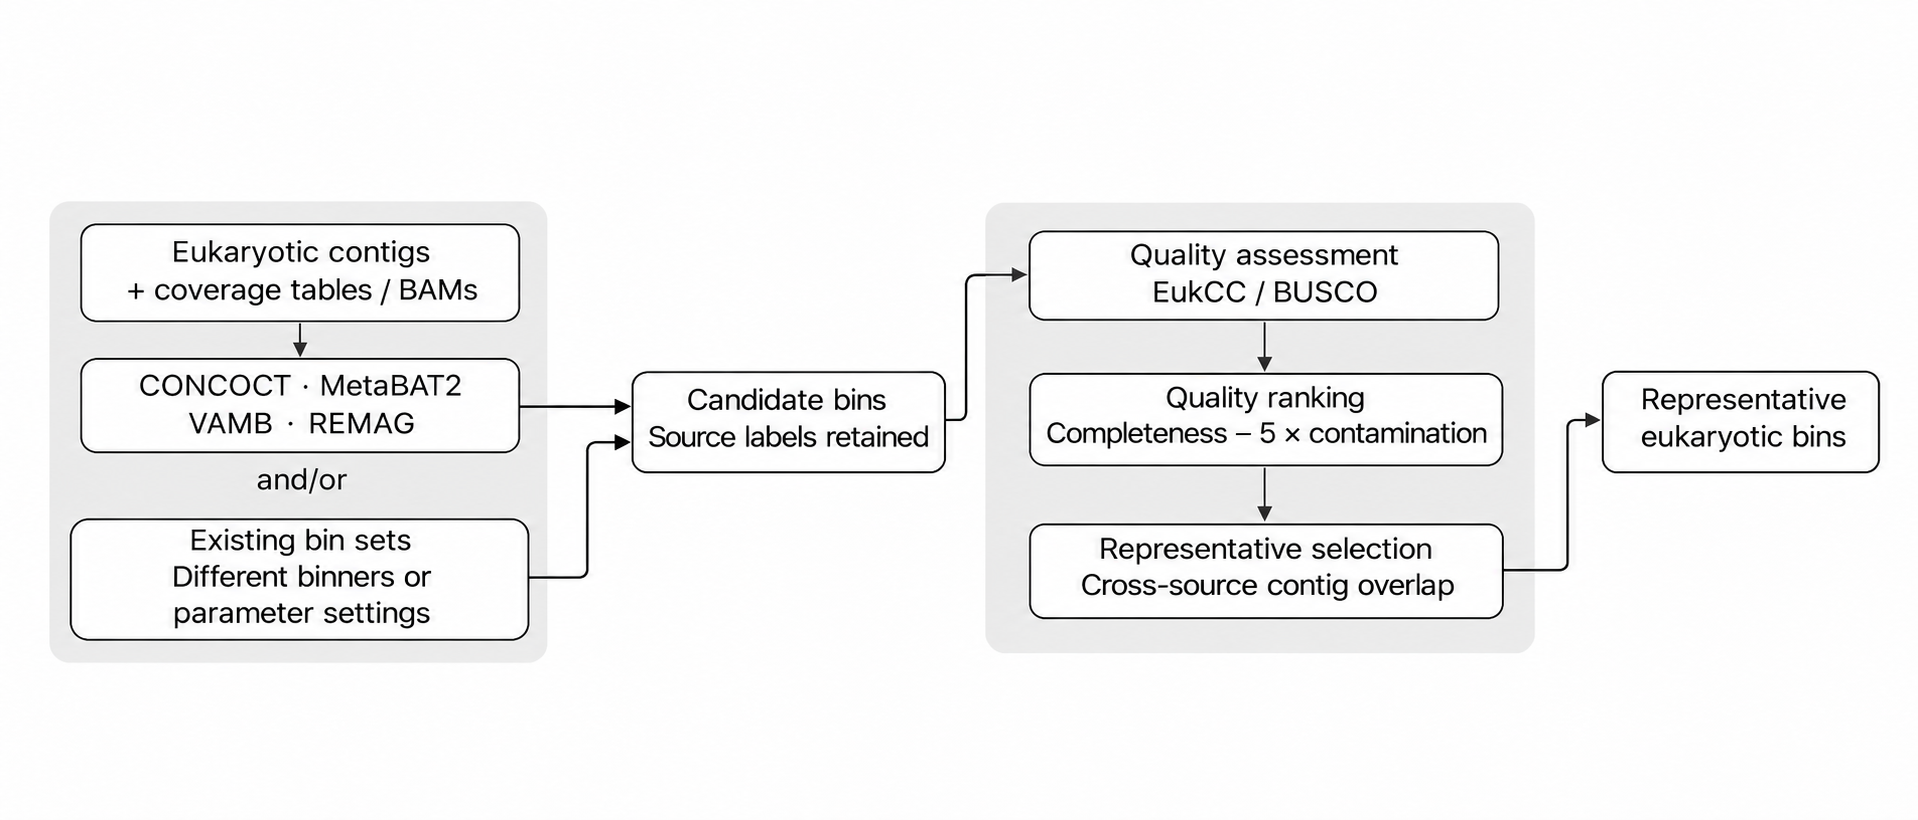
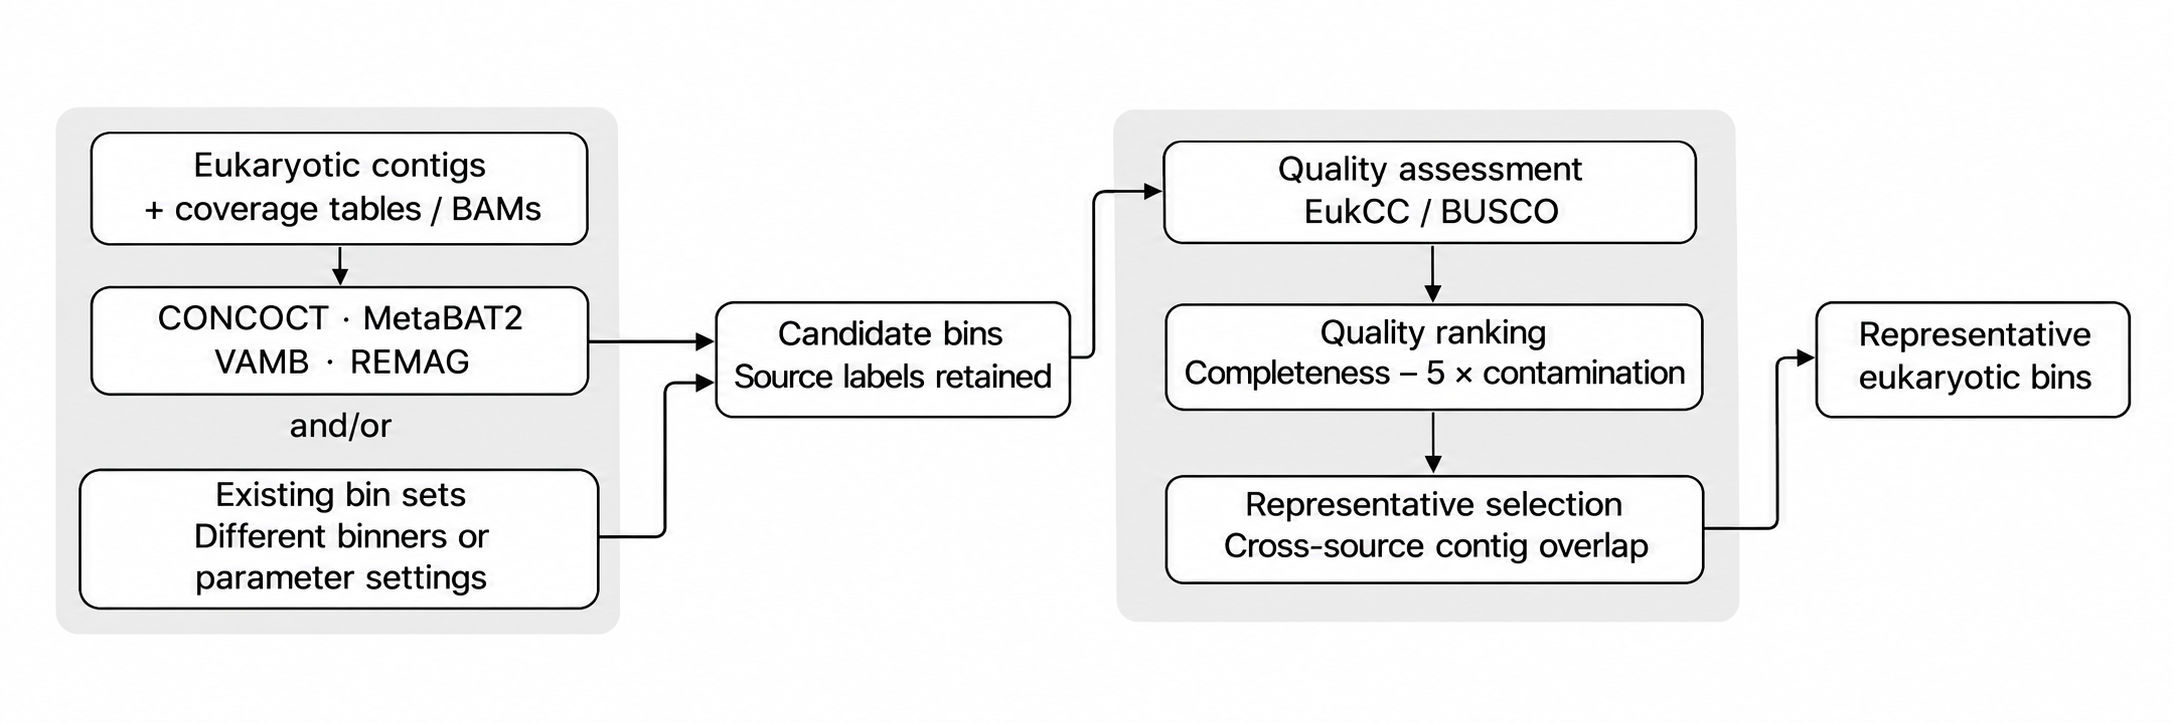
Simplify README usage and defaults and reduce workflow figure whitespace

diff --git a/README.md b/README.md
@@ -6,35 +6,35 @@ Version **0.3** · [GitHub](https://github.com/WeStrainGroup/EukBinPicker)
 
 ## Introduction
 
-Genome-resolved metagenomics helps reveal the taxonomic diversity and functional roles of environmental eukaryotes, although recovering their genomes remains challenging. A typical workflow involves assembling quality-controlled reads, mapping reads to the complete assembly, and identifying eukaryotic contigs with [EukContigMiner](https://github.com/WeStrainGroup/EukContigMiner) or similar tools. These contigs and their coverage profiles are then used for binning to recover eukaryotic metagenome-assembled genomes (MAGs).
+Genome-resolved metagenomics helps reveal eukaryotic diversity and function, but genome recovery remains challenging. A typical workflow assembles quality-controlled reads, maps reads to the complete assembly, and identifies eukaryotic contigs with [EukContigMiner](https://github.com/WeStrainGroup/EukContigMiner) or similar tools. These contigs and their coverage profiles are then used to recover metagenome-assembled genomes (MAGs).
 
-However, binning performance varies across samples and environments. Following the complementary-binner rationale of [DAS Tool](https://github.com/cmks/DAS_Tool), we developed EukBinPicker (EBP) to evaluate candidate bins from multiple binners and select representative eukaryotic bins based on quality estimates and shared contigs.
+Binning performance varies across samples and environments. Following the complementary-binner rationale of [DAS Tool](https://github.com/cmks/DAS_Tool), EukBinPicker (EBP) evaluates candidate bins from multiple sources and selects representatives based on quality estimates and shared contigs.
 
-EBP supports binning directly from eukaryotic contigs and coverage by integrating [CONCOCT](https://github.com/BinPro/CONCOCT), [MetaBAT2](https://bitbucket.org/berkeleylab/metabat/), [VAMB](https://github.com/RasmussenLab/vamb) and [REMAG](https://github.com/danielzmbp/remag). These algorithmically diverse methods use contig sequences and coverage without requiring prokaryotic marker genes or taxonomic assignments for binning. EBP also accepts existing bin sets generated by different tools or parameter settings, independently or together with native binning in the same run. All candidates enter the same quality assessment and representative selection workflow.
+EBP integrates [CONCOCT](https://github.com/BinPro/CONCOCT), [MetaBAT2](https://bitbucket.org/berkeleylab/metabat/), [VAMB](https://github.com/RasmussenLab/vamb) and [REMAG](https://github.com/danielzmbp/remag), which use contig sequences and coverage without requiring prokaryotic marker genes or taxonomic assignments for binning. It also accepts existing bin sets, alone or alongside new binning. All candidates undergo the same quality assessment and selection workflow.
 
 ![EukBinPicker workflow](docs/ebp_workflow.png)
 
 ## Installation
 
-Install via Conda on Linux x86-64:
+Install with Conda on Linux x86-64:
 
 ```bash
 conda create -n eukbinpicker --override-channels -c westraingroup -c conda-forge eukbinpicker=0.3
 conda activate eukbinpicker
 ```
 
-Alternatively, install directly from GitHub with Conda and curl available:
+Or install from GitHub with Conda and curl available:
 
 ```bash
 curl -fsSL https://raw.githubusercontent.com/WeStrainGroup/EukBinPicker/v0.3/install.sh | bash -s -- --prefix "$HOME/conda-envs/eukbinpicker"
 conda activate "$HOME/conda-envs/eukbinpicker"
 ```
 
-Tool versions: REMAG 0.4.4, CONCOCT 1.1.0, MetaBAT2 2.18, VAMB 5.0.4, EukCC 2.1.3 and BUSCO 6. PyTorch 2.6.0 with CUDA 12.4 supports both execution modes.
-
-Reference databases are downloaded separately: provide the unpacked [EukCC database](https://github.com/Finn-Lab/EukCC) with `--eukcc-db`, or a [BUSCO lineage](https://busco.ezlab.org/) with `--busco-db`. These paths can also be set through `EUKBINPICKER_EUKCC_DB` and `EUKBINPICKER_BUSCO_DB`.
+Download reference databases separately. Provide an unpacked [EukCC database](https://github.com/Finn-Lab/EukCC) with `--eukcc-db`, or a [BUSCO lineage](https://busco.ezlab.org/) with `--busco-db`. Alternatively, set `EUKBINPICKER_EUKCC_DB` or `EUKBINPICKER_BUSCO_DB`.
 
 ## Quick start
+
+### Bin contigs
 
 ```bash
 eukbinpicker \
@@ -45,59 +45,56 @@ eukbinpicker \
   --output sample_1_ebp
 ```
 
-By default, EBP runs all four binners on CPU with 4 threads, retains contigs ≥1,500 bp, and assesses bins ≥500,000 bp with EukCC. Selected FASTA files are written to `sample_1_ebp/3_selection/bins/`.
-
-## Existing bin sets
-
-If bins are already available, supply one directory per tool or source:
+### Select from existing bins
 
 ```bash
 eukbinpicker \
   --sample sample_1 \
-  --bins /path/to/concoct_bins /path/to/metabat2_bins /path/to/other_bins \
+  --bins /path/to/bins_A /path/to/bins_B \
   --eukcc-db /path/to/eukcc_db \
   --output sample_1_selection
 ```
 
-`--bins` accepts multiple directories or repeated arguments. Each directory must directly contain bin FASTA files (`.fa`, `.fna`, `.fasta`, optionally `.gz`); subdirectories are not searched. Any source is accepted, including tools outside the four bundled binners. Directory names identify sources; names colliding with another imported source or a selected native binner receive numeric suffixes (for example, `metabat2_2`). Original paths and checksums are recorded in `0_log/run.json`.
-
-With `--bins` alone, no assembly FASTA or coverage is required. EBP assumes the supplied bin sets come from the same assembly and retain the original contig IDs. It checks FASTA structure but does not verify assembly provenance or classify contigs. Overlap is calculated from matching contig IDs and normalized sequences within the supplied bins.
-
-With `--bins` alone, coverage and binning are skipped; omit `--contigs`, coverage-column selectors and binner options. `--min-input-length` applies only when running binners; imported bins remain intact. Retention, QC and selection thresholds still apply. Retained bins are copied into `1_raw/` (gzip files are decompressed); source files are never modified. Different directories are compared as separate sources, while bins within one directory are not deduplicated against each other.
-
-## Combined binning and existing bins
-
-Supply `--contigs`, `--coverage` and `--bins` together to run native binners and add existing candidates in one run:
+### Combine new and existing bins
 
 ```bash
 eukbinpicker \
   --sample sample_1 \
   --contigs euk_contigs.fa \
   --coverage assembly_depth.tsv \
-  --bins /path/to/previous_bins /path/to/alternative_bins \
+  --bins /path/to/bins_A /path/to/bins_B \
   --eukcc-db /path/to/eukcc_db \
   --output sample_1_combined
 ```
 
-Generated and imported bins retain separate source labels and undergo one shared QC, ranking and selection workflow. All inputs are assumed to come from the same assembly with original contig IDs. Coverage is required only for the supplied contig FASTA; imported bins need no coverage and remain intact, including contigs below `--min-input-length`. If native branches fail or no input contigs pass the length threshold, valid imported bins can still be assessed and selected. Inspect `0_log/summary.json` for completed native binners and imported sources.
+Binning defaults to all four tools, CPU, 4 threads and contigs ≥1,500 bp. Bins ≥500,000 bp enter EukCC assessment. Selected FASTA files are written to `3_selection/bins/` within the output directory.
 
-## Coverage input
+## Inputs
 
-`--coverage` accepts tables or BAM files, including multiple files or repeated `--coverage` arguments. All dimensions must refer to the same assembly; do not mix BAMs and tables in one run.
+### Contigs and existing bins
 
-**Full-assembly coverage is supported.** EBP selects the rows matching the input eukaryotic FASTA, preserving its contig order and coverage values. Other contigs are excluded and counted in run metadata. Every supplied FASTA contig must have coverage; missing values are not replaced with zero.
+Supply eukaryotic contigs for binning and eukaryotic bins for import. EBP does not classify inputs; REMAG's classifier is skipped. All inputs must come from the same assembly and retain original contig IDs.
+
+`--contigs` is required with `--coverage`. Coverage may represent the source sample alone or multiple samples mapped to that assembly. Full-assembly coverage is supported: EBP selects rows matching the supplied FASTA and preserves their values. Every supplied FASTA contig must have coverage, including those below the length threshold; missing values are not filled with zero.
+
+`--bins` accepts one directory per source, including tools or parameter settings outside the bundled binners. Each directory must directly contain `.fa`, `.fna` or `.fasta` files, optionally gzip-compressed. Multiple directories and repeated `--bins` arguments are supported; subdirectories are not searched.
+
+Directory names label imported sources. Conflicting names receive numeric suffixes, such as `metabat2_2`. EBP records paths and checksums, validates FASTA structure, and trusts assembly provenance. Imported bins need no coverage and remain intact, including contigs below `--min-input-length`. Retained bins are copied to `1_raw/`; gzip files are decompressed and source files are unchanged.
+
+With `--bins` alone, omit contigs, coverage and binner options. With combined input, generated and imported bins retain separate source labels and enter one shared QC and selection workflow.
 
 ### Coverage tables
 
-[Standard JGI depth tables](https://bitbucket.org/berkeleylab/metabat/) are recognized automatically. Generic mean-coverage matrices and custom schemas are also supported. Tables must be tab-separated, with a header; plain and gzip-compressed files are accepted.
+`--coverage` accepts one or more tab-separated tables with headers, either plain or gzip-compressed. Standard JGI depth tables and mean-coverage matrices are detected automatically. Multiple files and repeated `--coverage` arguments are supported; all must refer to the same assembly.
 
-For example, `custom.tsv` may contain:
+For custom columns, provide the contig and mean column names together. Variance columns are optional and pair with means in the same order. The same selectors apply to every input table. Coverage dimensions use table headers, or filenames for multiple single-coverage generic/custom tables.
+
+For example, `custom.tsv`:
 
 ```txt
 sequence_id	A_mean	B_mean	A_var	B_var
 contig_1	12.4	8.1	2.0	1.4
 contig_2	0.0	3.2	0.0	0.6
-contig_3	5.7	2.1	0.8	0.3
 ```
 
 ```bash
@@ -112,11 +109,13 @@ eukbinpicker \
   --output sample_1_ebp
 ```
 
-If the FASTA contains only `contig_1` and `contig_3`, only those rows enter binning. Contig IDs must be unique, values finite and non-negative, and any supplied contig lengths must match the FASTA. Input tables are validated before subsetting.
+Contig IDs must be unique, values finite and non-negative, and any supplied lengths must match the FASTA. Tables are validated before subsetting.
 
-Variance columns are optional and pair with mean columns in the same order. MetaBAT2 uses observed variance when available and its native `--cvExt` mode for mean-only input; variance must be present for all dimensions or none. REMAG, CONCOCT and VAMB use mean coverage.
+MetaBAT2 uses observed variance when available and native `--cvExt` mode for mean-only input; variance must cover all dimensions or none when MetaBAT2 is selected. REMAG, CONCOCT and VAMB use means. With table input, CONCOCT approximates fragment coverage using each parent contig's mean.
 
 ### BAM files
+
+Use BAM files in place of coverage tables:
 
 ```bash
 eukbinpicker \
@@ -127,26 +126,28 @@ eukbinpicker \
   --output sample_1_ebp
 ```
 
-Provide one coordinate-sorted BAM per mapping sample, each with a `.bai` or `.csi` index, unique basename, and the same ordered reference IDs and lengths. The eukaryotic FASTA must be a matching subset of the mapped assembly. EBP reuses these alignments without remapping reads.
+Provide one coordinate-sorted BAM per mapping sample, each with a `.bai` or `.csi` index, a unique basename, and the same ordered reference IDs and lengths. The input FASTA must be a matching subset of the mapped assembly. Do not mix BAMs and tables in one run.
 
-The installer includes SAMtools and `jgi_summarize_bam_contig_depths`. JGI produces contig means and variances; CONCOCT computes native fragment coverage from the BAMs. With table input, CONCOCT approximates fragment coverage using each parent contig's mean.
+EBP reuses alignments without remapping. The installer includes SAMtools and `jgi_summarize_bam_contig_depths`; JGI calculates contig means and variances, while CONCOCT calculates fragment coverage directly from BAMs.
 
 ## Parameters
+
+Default values are shown below. **—** means no preset value; input requirements are stated in the description.
 
 ### Input and output
 
 | Parameter | Default | Description |
 | --- | --- | --- |
-| `--sample` | Required | Assembly/sample label: letters, digits, `.`, `_` or `-`. |
-| `--contigs` | With coverage | Eukaryotic contig FASTA with unique IDs for native binning. |
-| `--coverage` | At least one; both allowed | One or more coverage tables or indexed BAMs; repeatable. |
-| `--bins` | At least one; both allowed | Existing bin directories from the same assembly; repeatable. Use alone or combine with coverage. |
-| `--cov-contig-column` | Auto | Contig ID column name in custom tables. |
-| `--cov-mean-column` | Auto | Mean-coverage column names in custom tables, comma-separated. |
-| `--cov-variance-column` | Auto | Coverage-variance column names in custom tables, comma-separated and paired with means. |
-| `--output` | Required | Run output directory. |
+| `--sample` | — | Required sample label: letters, digits, `.`, `_` or `-`. |
+| `--contigs` | — | Eukaryotic FASTA with unique IDs; required with `--coverage`. |
+| `--coverage` | — | Coverage tables or indexed BAMs; multiple files and repeated arguments accepted. |
+| `--bins` | — | Existing bin directories; multiple directories and repeated arguments accepted. |
+| `--cov-contig-column` | — | Contig ID column in custom tables. |
+| `--cov-mean-column` | — | Comma-separated mean columns in custom tables. |
+| `--cov-variance-column` | — | Comma-separated variance columns, paired with means. |
+| `--output` | — | Required output directory. |
 
-Standard formats are detected automatically. For custom schemas, specify the contig and mean columns together; variance columns are optional. Selectors apply only to tables, and the same selectors apply to every supplied table. Coverage dimensions use table headers, or filenames for multiple generic or custom single-coverage tables.
+Provide `--coverage`, `--bins`, or both. Coverage-column selectors apply only to tables; omit them for automatic format detection.
 
 ### Binning and resources
 
@@ -156,16 +157,14 @@ Standard formats are detected automatically. For custom schemas, specify the con
 | `--threads` | `4` | Threads supplied to each tool. |
 | `--random-seed` | `6311` | Shared positive seed for binning. |
 | `--gpu` | `F` | `T`: CUDA for selected REMAG/VAMB; `F`: CPU. |
-| `--remag-parameters` | Empty | Quoted native REMAG options. |
-| `--concoct-parameters` | Empty | Quoted native CONCOCT options. |
-| `--metabat2-parameters` | Empty | Quoted native MetaBAT2 options. |
-| `--vamb-parameters` | Empty | Quoted native VAMB options. |
+| `--remag-parameters` | — | Quoted native REMAG options. |
+| `--concoct-parameters` | — | Quoted native CONCOCT options. |
+| `--metabat2-parameters` | — | Quoted native MetaBAT2 options. |
+| `--vamb-parameters` | — | Quoted native VAMB options. |
 
-REMAG and VAMB run sequentially, so one allocated GPU can serve both. CONCOCT, MetaBAT2 and QC remain on CPU. `--gpu T` checks CUDA availability in the selected GPU-capable tools; it does not request hardware from a scheduler.
+EBP retains native algorithm defaults with a shared input threshold and seed. CONCOCT uses 10-kb fragments, native normalization and 400 clusters. MetaBAT2 and REMAG retain their native 200-kb and 500-kb output minima. VAMB retains native training and bin splitting, with nonempty FASTA export enabled. `--min-retain-length` does not lower native output minima.
 
-Native algorithm defaults are retained, with the shared input threshold and seed. REMAG's classifier is skipped. CONCOCT uses standard 10-kb fragments, native normalization and 400 clusters. MetaBAT2 and REMAG retain their native 200-kb and 500-kb output minima. VAMB retains native training and bin splitting, with nonempty FASTA export enabled. The retention setting does not lower these native minima.
-
-**Customizing a binner.** Use the tool's native option names inside one quoted string:
+To customize a binner, pass native options in one quoted string:
 
 ```bash
 eukbinpicker \
@@ -178,7 +177,9 @@ eukbinpicker \
   --metabat2-parameters "--maxP 90"
 ```
 
-Input/output paths, threads, seeds, devices and shared input-length settings are managed by EBP; use their public EBP options instead. Native options and actual commands are recorded with the run.
+Use EBP options for input/output paths, threads, seeds, devices and input length. Native options and executed commands are recorded with the run.
+
+REMAG and VAMB run sequentially and can share one allocated GPU. CONCOCT, MetaBAT2 and QC use CPU. `--gpu T` checks CUDA availability; it does not request hardware from a scheduler.
 
 ### Quality assessment
 
@@ -186,30 +187,30 @@ Input/output paths, threads, seeds, devices and shared input-length settings are
 | --- | --- | --- |
 | `--qc-tools` | `eukcc` | `eukcc`, `busco`, `eukcc,busco` or `all`. |
 | `--qc-decision` | `eukcc` | Executed QC tool used for filtering and ranking. |
-| `--eukcc-db` | Environment | Unpacked EukCC database; required when EukCC is selected. |
-| `--busco-db` | Environment | Unpacked BUSCO lineage containing `dataset.cfg` and `hmms/`. |
+| `--eukcc-db` | — | Unpacked EukCC database; required when EukCC is selected. |
+| `--busco-db` | — | Unpacked BUSCO lineage with `dataset.cfg` and `hmms/`; required when BUSCO is selected. |
 
-To rank with BUSCO, include it in `--qc-tools` and set `--qc-decision busco`. BUSCO duplicated percentage is used as a contamination proxy.
+Database paths may also come from the environment variables listed under Installation. To rank with BUSCO, include it in `--qc-tools` and set `--qc-decision busco`. Its duplicated percentage is used as a contamination proxy.
 
 ### Filtering and selection
 
 | Parameter | Default | Description |
 | --- | --- | --- |
-| `--min-input-length` | `1500` | Minimum contig length for binning, in bp; does not trim imported bins. |
-| `--min-retain-length` | `0` | Additional bin-retention minimum, in bp; 0 disables it. |
+| `--min-input-length` | `1500` | Minimum contig length for binning, in bp; imported bins remain intact. |
+| `--min-retain-length` | `0` | Additional bin-retention minimum, in bp; `0` disables it. |
 | `--min-selection-length` | `500000` | Minimum bin length entering QC and selection, in bp. |
 | `--min-selection-completeness` | `0` | Minimum completeness, in %. |
 | `--max-selection-contamination` | `100` | Maximum contamination or BUSCO proxy, in %. |
 | `--contamination-penalty` | `5` | Contamination penalty in the ranking score. |
-| `--min-overlap` | `0.50` | Cross-binner overlap threshold. |
+| `--min-overlap` | `0.50` | Overlap threshold between candidates from different sources. |
 
-All thresholds are inclusive. Selection length must be at least retention length. Valid QC estimates are required even with the permissive 0%/100% defaults; selected bins are not necessarily high-quality MAGs.
+Thresholds are inclusive. Selection length must be at least retention length. Valid QC estimates are required even with the permissive completeness and contamination defaults; selected bins are not necessarily high-quality MAGs.
 
 ### Information
 
 | Parameter | Description |
 | --- | --- |
-| `--help` | Show all command-line options. |
+| `--help` | Show command-line options. |
 | `--version` | Print the installed version. |
 
 ## How selection works
@@ -220,30 +221,28 @@ Candidates passing the length and QC thresholds are ranked by:
 score = completeness − contamination_penalty × contamination
 ```
 
-EBP visits candidates in descending quality order. A candidate is excluded if it overlaps an already selected bin from a different binner:
+EBP visits candidates in descending quality order. A candidate is excluded if its overlap with an already selected bin from a different source reaches `--min-overlap` (default: 0.50):
 
 ```txt
 overlap(A, B) = shared_contig_bp / min(length(A), length(B))
 ```
 
-The default cutoff is 0.50. This selects the highest-ranked representative among competing cross-binner candidates within the assembly. Shared contigs must match in original ID and normalized sequence; overlap is a proxy for competing genome reconstructions, not a taxonomic identity test. Bins from the same binner (or the same imported directory) are not compared. EBP preserves complete candidate bins without merging, splitting or refinement.
+A source is one native binner or one imported directory. Bins within a source are not compared. Shared contigs must match in original ID and normalized sequence; overlap identifies competing reconstructions, not taxonomic identity. EBP preserves complete candidate bins without merging, splitting or refinement.
 
 ## Outputs
 
 | Path | Contents |
 | --- | --- |
-| `0_log/` | `run.json`, `summary.json`, readable logs and internal work records. |
-| `1_raw/<binner>/` | Original bin FASTA files passing the retention threshold, grouped by binner or imported source. |
+| `0_log/` | Input metadata, run summary, commands and internal records. |
+| `1_raw/` | Retained bin FASTA files, grouped by source. |
 | `2_qc/eukcc/`, `2_qc/busco/` | Results from each requested QC tool. |
-| `2_qc/summary.tsv` | One row per assessed bin: originating binner, SeqKit statistics and all requested QC metrics. |
-| `3_selection/representatives.tsv` | One row per selected representative: selection reason, SeqKit and QC statistics, shared-contig statistics and represented bins. |
+| `2_qc/summary.tsv` | Source, SeqKit statistics and QC metrics for each assessed bin. |
+| `3_selection/representatives.tsv` | Selected representatives, quality metrics, shared-contig statistics and represented bins. |
 | `3_selection/bins/` | Selected FASTA files and their checksum manifest. |
 
-`represented_bins` includes the representative itself and excluded candidates assigned to it. When a candidate matches multiple representatives, its primary assignment follows the selection algorithm; all matches remain available in `0_log/selection/alternatives.tsv`.
+`represented_bins` lists each representative and its excluded alternatives. Candidates matching multiple representatives receive one primary assignment; all matches are recorded in `0_log/selection/alternatives.tsv`.
 
-`shared_contig_fraction` is the fraction of a selected bin's length also present in any other final selected bin, including those from the same binner. Each shared contig is counted once; excluded alternatives do not contribute. This diagnostic does not change selection and is not a contamination estimate.
-
-A failed binner can be recorded while other successful branches complete; inspect `0_log/summary.json` for per-binner outcomes. Reuse requires matching inputs, parameters, software and verified outputs. Use a new output directory when changing a run.
+Check `0_log/summary.json` for completed native binners, imported sources and selection counts. Imported candidates can still be processed if native branches fail or no contigs pass the input-length threshold. Reusing an output directory requires matching inputs, parameters, software and intact outputs; otherwise, use a new directory.
 
 ## License
 
